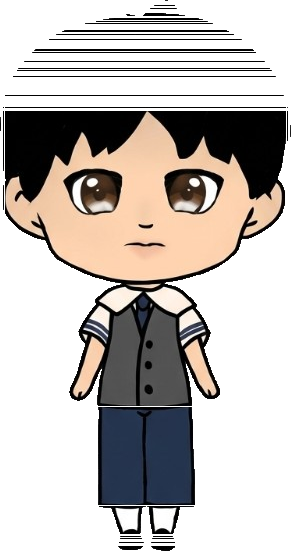
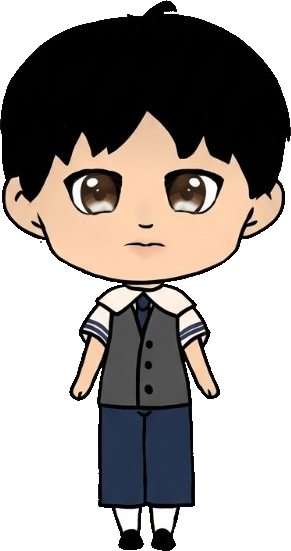
fix: regenerate Penn sprites with improved checkerboard background removal

diff --git a/public/images/characters/build_penn_sprite.py b/public/images/characters/build_penn_sprite.py
@@ -1,17 +1,14 @@
 """
 Build penn-1.png and penn-2.png from a Gemini / composite Penn export.
 
-1. Save your PNG as penn-source.png in this folder (or pass the path as argv).
-2. Run: python build_penn_sprite.py
-
-Removes the baked checkerboard by flooding from the border through pixels that
-match neutral (“checker”) tones sampled from the edge.
+Removes the baked checkerboard by flood filling from the border using a grayscale
+and color-range bounding rule to prevent leaking into character outlines or gray vests.
 """
 
 from __future__ import annotations
 
 import sys
-from collections import Counter, deque
+from collections import deque
 from pathlib import Path
 
 from PIL import Image
@@ -20,65 +17,59 @@ from PIL import Image
 SOURCE_NAME = "penn-source.png"
 
 
-def _edge_samples(px, w: int, h: int, stride: int = 1) -> list[tuple[int, int, int]]:
-    out: list[tuple[int, int, int]] = []
-    for x in range(0, w, stride):
-        out.append(px[x, 0][:3])
-        out.append(px[x, h - 1][:3])
-    for y in range(0, h, stride):
-        out.append(px[0, y][:3])
-        out.append(px[w - 1, y][:3])
-    return out
-
-
-def _quantize(rgb: tuple[int, int, int], step: int = 6) -> tuple[int, int, int]:
-    return tuple(round(c / step) * step for c in rgb)
-
-
-def _backdrop_templates(edge_colors: list[tuple[int, int, int]]) -> set[tuple[int, int, int]]:
-    """Quantized neutral edge colors (checker tiles)."""
-    ctr = Counter(_quantize(c) for c in edge_colors)
-    templates: set[tuple[int, int, int]] = set()
-    for rgb, _ in ctr.most_common(40):
-        r, g, b = rgb
-        if max(r, g, b) - min(r, g, b) > 42:
-            continue
-        templates.add(rgb)
-    return templates
-
-
-def _near(rgb: tuple[int, int, int], tpl: tuple[int, int, int], tol: int = 28) -> bool:
-    return all(abs(rgb[i] - tpl[i]) <= tol for i in range(3))
-
-
-def _matches_any(rgb: tuple[int, int, int], templates: set[tuple[int, int, int]], tol: int) -> bool:
-    return any(_near(rgb, t, tol) for t in templates)
-
-
-def _clear_opaque_bands(px, w: int, h: int, max_lum_threshold: float = 46.0) -> None:
-    """Remove letterbox rows/cols that are uniformly very dark (opaque black bars)."""
-    for y in range(h):
-        vals = [px[x, y] for x in range(w) if px[x, y][3] > 0]
-        if not vals:
-            continue
-        mx = max(sum(c[:3]) / 3 for c in vals)
-        if mx < max_lum_threshold:
-            for x in range(w):
-                px[x, y] = (0, 0, 0, 0)
-
+def strip_checkerboard(im: Image.Image) -> Image.Image:
+    rgba = im.convert("RGBA")
+    w, h = rgba.size
+    px = rgba.load()
+    
+    visited = [[False] * w for _ in range(h)]
+    q: deque[tuple[int, int]] = deque()
+    
+    # Initialize queue with all border pixels
     for x in range(w):
-        vals = [px[x, y] for y in range(h) if px[x, y][3] > 0]
-        if not vals:
-            continue
-        mx = max(sum(c[:3]) / 3 for c in vals)
-        if mx < max_lum_threshold:
-            for y in range(h):
-                px[x, y] = (0, 0, 0, 0)
+        for y in (0, h - 1):
+            q.append((x, y))
+            visited[y][x] = True
+        
+    for y in range(h):
+        for x in (0, w - 1):
+            if not visited[y][x]:
+                q.append((x, y))
+                visited[y][x] = True
+
+    # Flood fill
+    while q:
+        x, y = q.popleft()
+        nc = px[x, y]
+        r, g, b = nc[:3]
+        
+        # Background checkerboard is gray: difference between channels is small
+        is_gray = max(r, g, b) - min(r, g, b) < 15
+        
+        # Not too dark (outlines/hair) and not too bright (collar/socks)
+        is_bg_range = 40 <= max(r, g, b) and min(r, g, b) <= 230
+        
+        if is_gray and is_bg_range:
+            # Mark as background (transparent)
+            px[x, y] = (0, 0, 0, 0)
+            
+            # Check 4-connected neighbors
+            for dx, dy in ((1, 0), (-1, 0), (0, 1), (0, -1)):
+                nx, ny = x + dx, y + dy
+                if 0 <= nx < w and 0 <= ny < h:
+                    if not visited[ny][nx]:
+                        visited[ny][nx] = True
+                        q.append((nx, ny))
+
+    return rgba
 
 
-def _crop_nonempty(im: Image.Image) -> Image.Image:
-    px = im.load()
-    w, h = im.size
+def finalize_sprite(im: Image.Image) -> Image.Image:
+    """Crop to visible pixels."""
+    rgba = im.convert("RGBA")
+    px = rgba.load()
+    w, h = rgba.size
+    
     min_x = min_y = 10**9
     max_x = max_y = -1
     for y in range(h):
@@ -93,70 +84,6 @@ def _crop_nonempty(im: Image.Image) -> Image.Image:
     return im.crop((min_x, min_y, max_x + 1, max_y + 1))
 
 
-def strip_checkerboard(im: Image.Image) -> Image.Image:
-    rgb = im.convert("RGB")
-    w, h = rgb.size
-    px = rgb.load()
-
-    edge = _edge_samples(px, w, h, stride=2)
-    templates = _backdrop_templates(edge)
-    if len(templates) < 2:
-        templates = _backdrop_templates(_edge_samples(px, w, h, stride=1))
-
-    seeds: list[tuple[int, int]] = []
-    for x in range(w):
-        for y in (0, h - 1):
-            c = px[x, y][:3]
-            if _matches_any(c, templates, tol=30):
-                seeds.append((x, y))
-    for y in range(h):
-        for x in (0, w - 1):
-            c = px[x, y][:3]
-            if _matches_any(c, templates, tol=30):
-                seeds.append((x, y))
-
-    inside = [[False] * w for _ in range(h)]
-    seen = set(seeds)
-    q: deque[tuple[int, int]] = deque(seeds)
-    while q:
-        x, y = q.popleft()
-        inside[y][x] = True
-        c = px[x, y][:3]
-        if not _matches_any(c, templates, tol=36):
-            continue
-        for dx, dy in ((1, 0), (-1, 0), (0, 1), (0, -1)):
-            nx, ny = x + dx, y + dy
-            if nx < 0 or ny < 0 or nx >= w or ny >= h:
-                continue
-            if (nx, ny) in seen:
-                continue
-            nc = px[nx, ny][:3]
-            if _matches_any(nc, templates, tol=36):
-                seen.add((nx, ny))
-                q.append((nx, ny))
-
-    out = Image.new("RGBA", (w, h))
-    po = out.load()
-    for y in range(h):
-        for x in range(w):
-            if inside[y][x]:
-                po[x, y] = (0, 0, 0, 0)
-            else:
-                r, g, b = px[x, y][:3]
-                po[x, y] = (r, g, b, 255)
-
-    return out
-
-
-def finalize_sprite(im: Image.Image) -> Image.Image:
-    """Strip leftover letterboxing and crop to visible pixels."""
-    rgba = im.convert("RGBA")
-    px = rgba.load()
-    w, h = rgba.size
-    _clear_opaque_bands(px, w, h)
-    return _crop_nonempty(rgba)
-
-
 def main() -> int:
     here = Path(__file__).resolve().parent
     src = Path(sys.argv[1]) if len(sys.argv) > 1 else here / SOURCE_NAME
@@ -166,7 +93,6 @@ def main() -> int:
 
     base = strip_checkerboard(Image.open(src))
     w, h = base.size
-    # Dalawang bersyon ni Penn sa source: kaliwa at kanan (hati sa gitna).
     mid = w // 2
     first = finalize_sprite(base.crop((0, 0, mid, h)))
     second = finalize_sprite(base.crop((mid, 0, w, h)))
